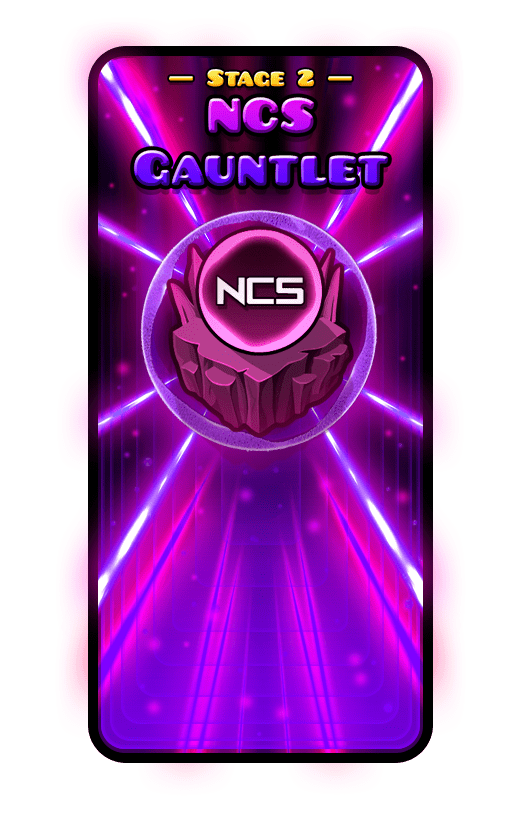
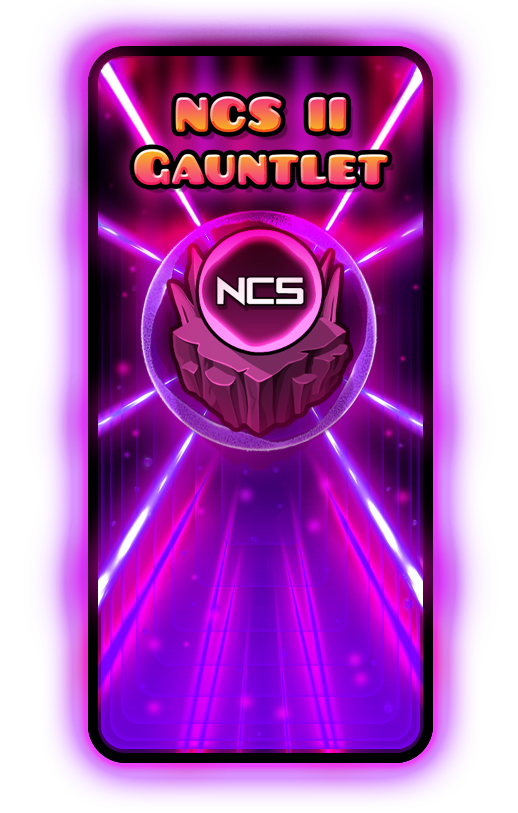
Update sprites & fixed actions

Changed region(s): [[0.0927, 0.0, 0.9266, 0.984]]

diff --git a/src/Styles/IconLockColors.cpp b/src/Styles/IconLockColors.cpp
@@ -56,6 +56,8 @@ class IconLockColors {
                     }
                 }
             }
+
+            return nullptr;
         }
 
         static void createIconColor() {
